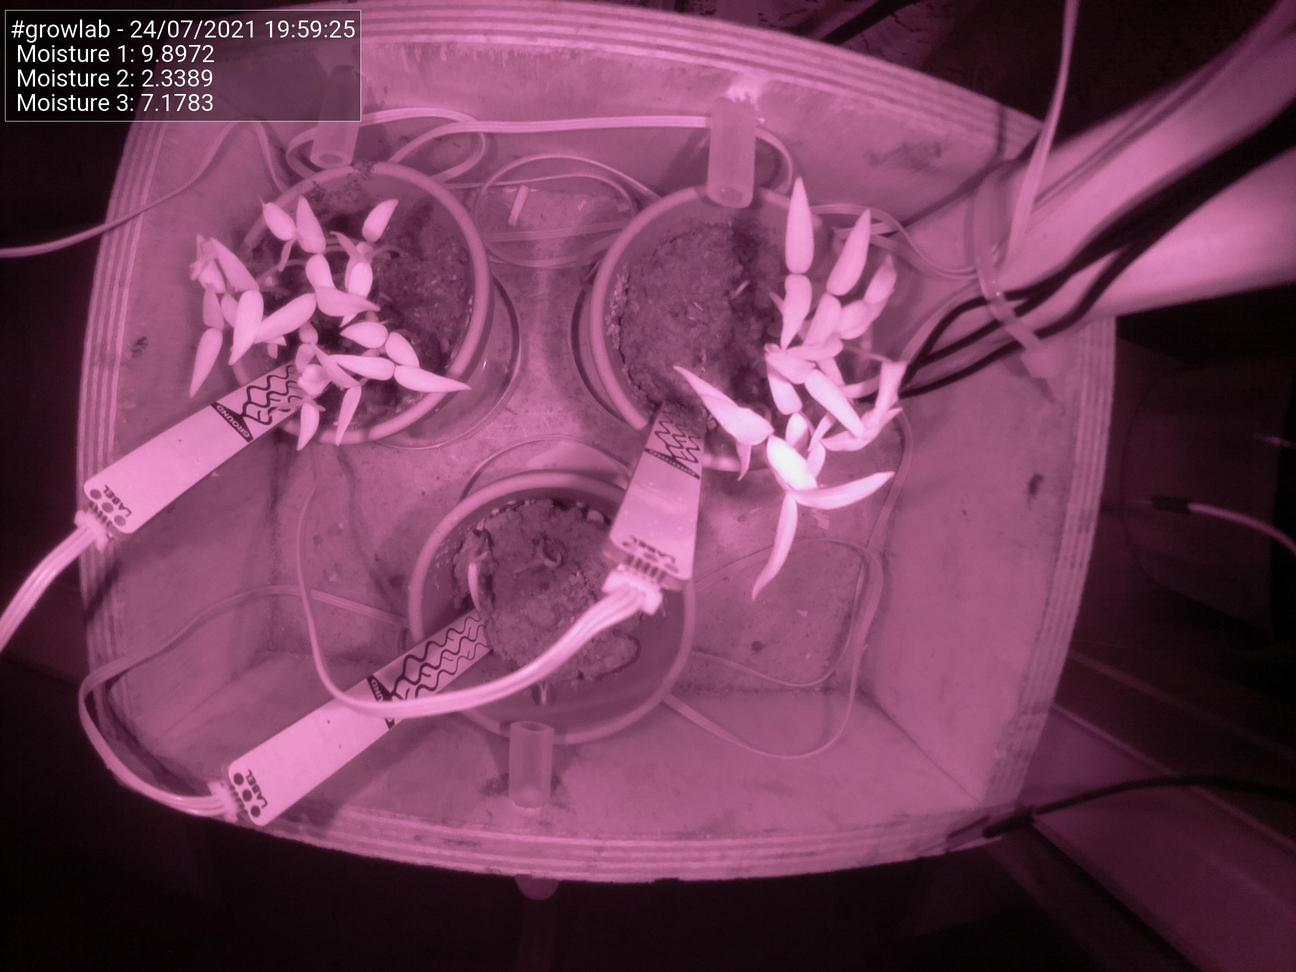
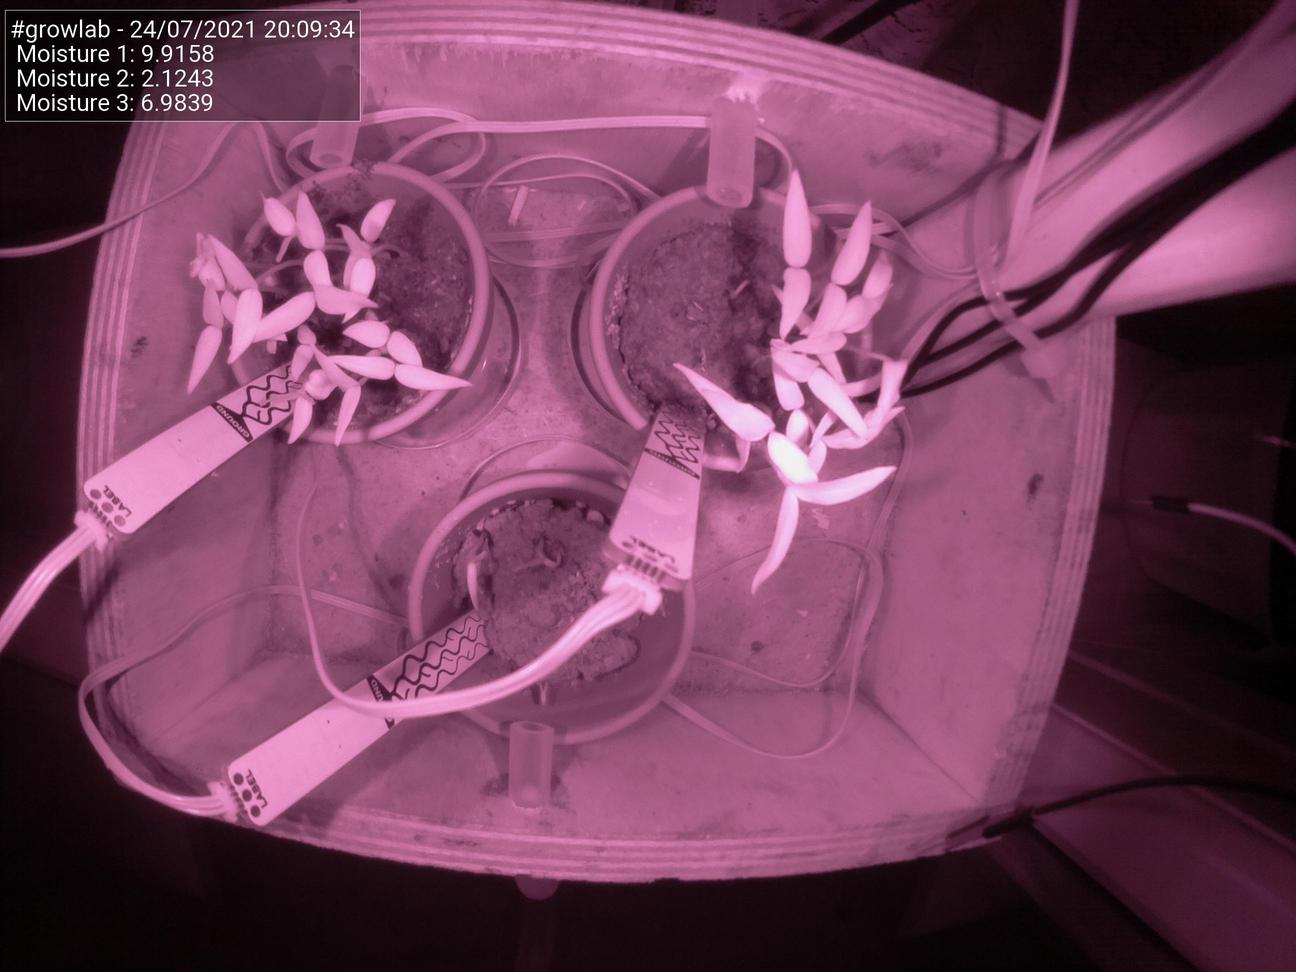
Update images at Sat 24 Jul 20:09:40 BST 2021

diff --git a/docs/index.html b/docs/index.html
@@ -51,25 +51,25 @@
                                 <td>Date</td>
                                 <td>24/07/2021</td>
                                 <td>Time</td>
-                                <td>19:59:25</td>
+                                <td>20:09:34</td>
                             </tr>
                             <tr>
                                 <td>Temperature</td>
                                 <td>N/A</td>
                                 <td>Moisture 1</td>
-                                <td>9.8972</td>
+                                <td>9.9158</td>
                             </tr>
                             <tr>
                                 <td>Humidity</td>
                                 <td>N/A</td>
                                 <td>Moisture 2</td>
-                                <td>2.3389</td>
+                                <td>2.1243</td>
                             </tr>
                             <tr>
                                 <td>Pressure</td>
                                 <td>N/A</td>
                                 <td>Moisture 3</td>
-                                <td>7.1783</td>
+                                <td>6.9839</td>
                             </tr>
                         </tbody>
                     </table>
@@ -77,7 +77,7 @@
 
                 <h5>Latest image</h5>
                 <div style="width: 85%;">
-                            <img class="figure-img img-fluid rounded" src="./preview.jpg?uid=1627153170.7054253">
+                            <img class="figure-img img-fluid rounded" src="./preview.jpg?uid=1627153780.598823">
                 </div>
             </div>
         </div>
